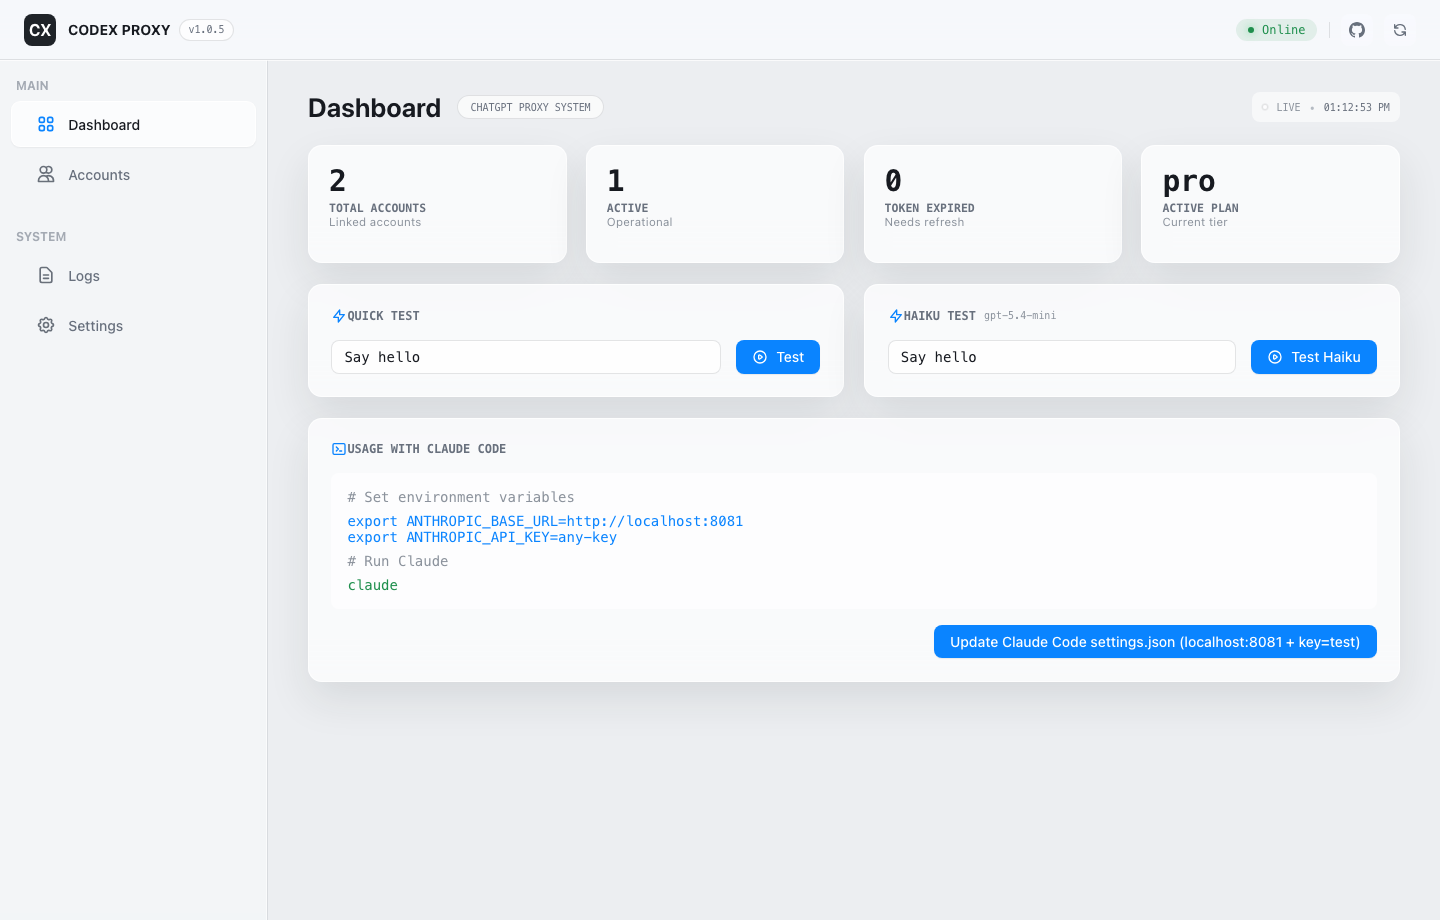
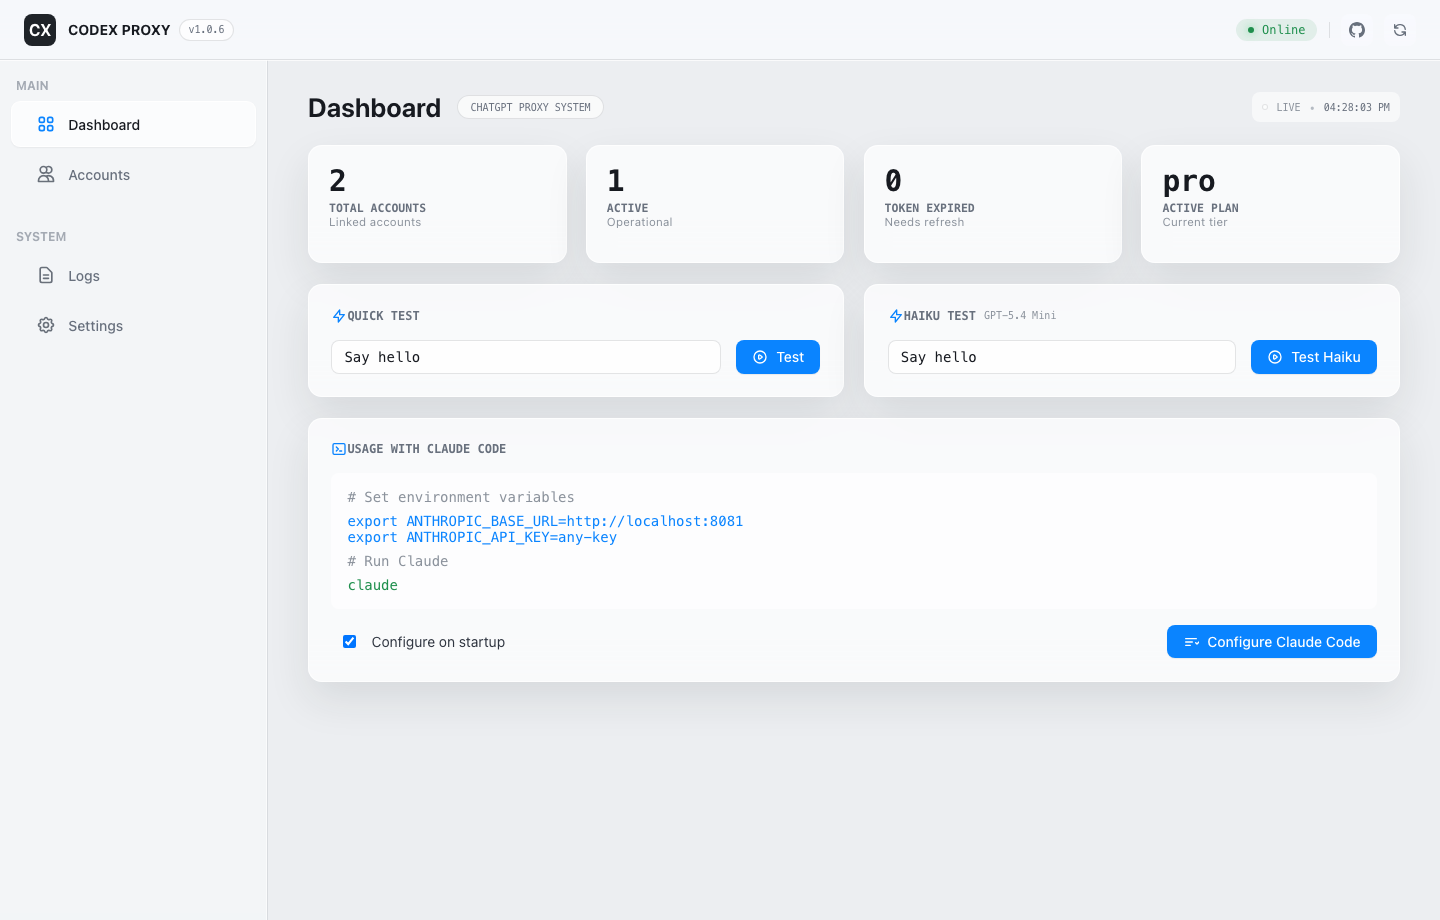
Docs: refresh README screenshots

Changed region(s): [[0.625, 0.6696, 0.9375, 0.7304]]

diff --git a/public/js/app.js b/public/js/app.js
@@ -7,7 +7,7 @@ document.addEventListener('alpine:init', () => {
     };
 
     Alpine.data('app', () => ({
-        version: '1.0.5',
+        version: '1.0.6',
         connectionStatus: 'connecting',
         activeTab: initialTab(),
         sidebarOpen: window.innerWidth >= 1024,

diff --git a/README.md b/README.md
@@ -1,8 +1,8 @@
 # Codex Claude Proxy
 
-![Codex Proxy dashboard screenshot](./images/dashboard-screenshot.png)
+![Codex Claude Proxy README cover](./images/readme-cover.png)
 
-_Current dashboard preview: a real capture of the local Web UI with the macOS-style glass layout._
+_Current README cover: a short, thumbgen-style composite generated from fresh local dashboard screenshots._
 
 [![MIT License](https://img.shields.io/badge/License-MIT-green.svg)](https://choosealicense.com/licenses/mit/)
 [![Node.js Version](https://img.shields.io/badge/Node.js-18%2B-blue.svg)](https://nodejs.org/)
@@ -25,7 +25,7 @@ _Current dashboard preview: a real capture of the local Web UI with the macOS-st
 - **Seamless Translation**: Translates Anthropic Messages API calls to ChatGPT Codex format.
 - **Model Mapping**: maps Claude model aliases to current OpenAI models, with direct GPT model IDs passed through.
 - **Personal Account Mode**: Uses the active ChatGPT account by default for local-only personal use, with account switching and auto-refresh.
-- **Web Dashboard**: Built-in macOS-style UI (`http://localhost:8081`) for managing accounts, viewing logs, adjusting settings, and testing prompts.
+- **Web Dashboard**: Built-in macOS-style UI (`http://localhost:8081`) for managing accounts, configuring Claude Code, viewing logs, adjusting settings, and testing prompts.
 - **Streaming Support**: Full Server-Sent Events (SSE) support for real-time responses.
 - **Native Tool Calling**: Supports Claude's tool use capabilities by translating them to Codex function calls.
 
@@ -118,7 +118,9 @@ For **headless/VM servers** without a browser:
 5. Paste it back in the terminal
 
 ### 3. Configure Claude Code
-   Run this command to automatically configure your `claude` CLI to use the proxy:
+   In the dashboard, click **Configure Claude Code** to write the proxy settings into Claude Code. Enable **Configure on startup** if you want the proxy to keep Claude Code pointed at the local server whenever it starts.
+
+   You can also run this command:
    ```bash
    curl -X POST http://localhost:8081/claude/config/proxy
    ```
@@ -154,11 +156,16 @@ The proxy automatically maps Claude model names to current OpenAI backend models
 
 ### Web Dashboard
 
-The dashboard uses a clean desktop split-view layout with a compact toolbar, native-feeling glass surfaces, account management, live logs, settings, and prompt test panels. The screenshot at the top of this README is captured from the actual local app.
+The dashboard uses a clean desktop split-view layout with a compact toolbar, native-feeling glass surfaces, account management, live logs, settings, Claude Code configuration, and prompt test panels. The screenshots below are captured from the actual local app.
+
+| Dashboard | Settings |
+| --- | --- |
+| ![Codex Proxy dashboard screenshot](./images/dashboard-screenshot.png) | ![Codex Proxy settings screenshot](./images/settings-screenshot.png) |
 
 Visit `http://localhost:8081` to:
 - **Manage Accounts**: Add, remove, or switch active ChatGPT accounts.
 - **Personal Mode**: Requests use the active account only unless multi-account rotation is explicitly enabled by environment variable.
+- **Configure Claude Code**: Use the dashboard button to set `ANTHROPIC_BASE_URL`, `ANTHROPIC_API_KEY`, and Claude model defaults, or enable the startup toggle to do it automatically.
 - **View Logs**: See real-time request/response logs for debugging.
 - **Test Models**: Run quick tests against the configured models.
 
